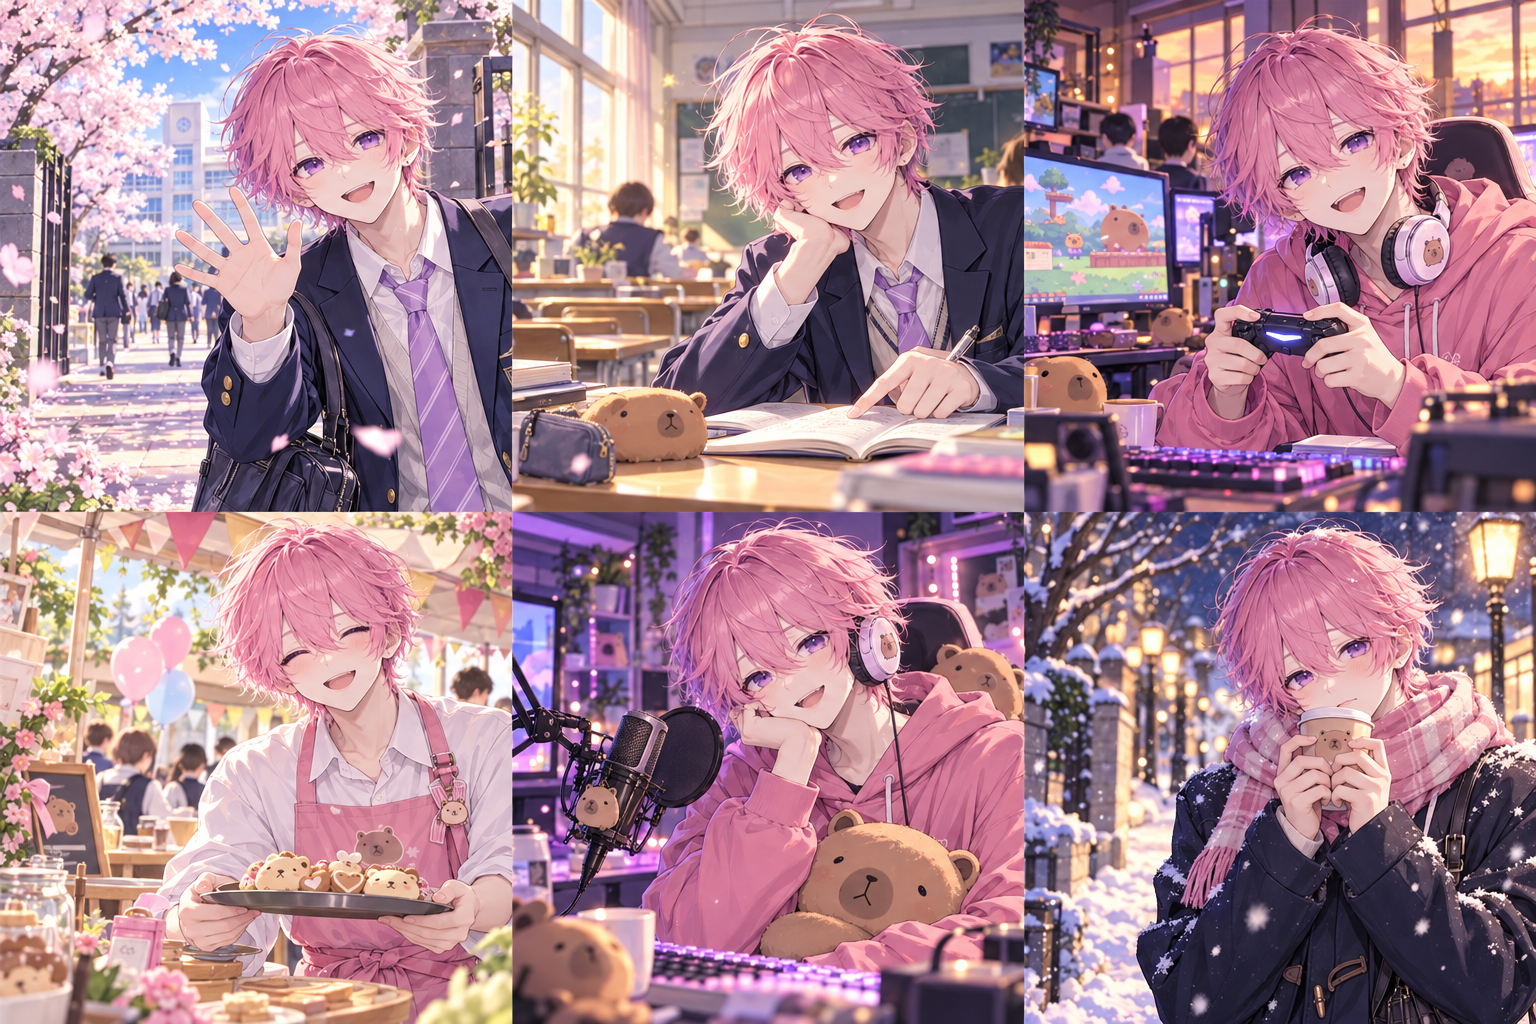
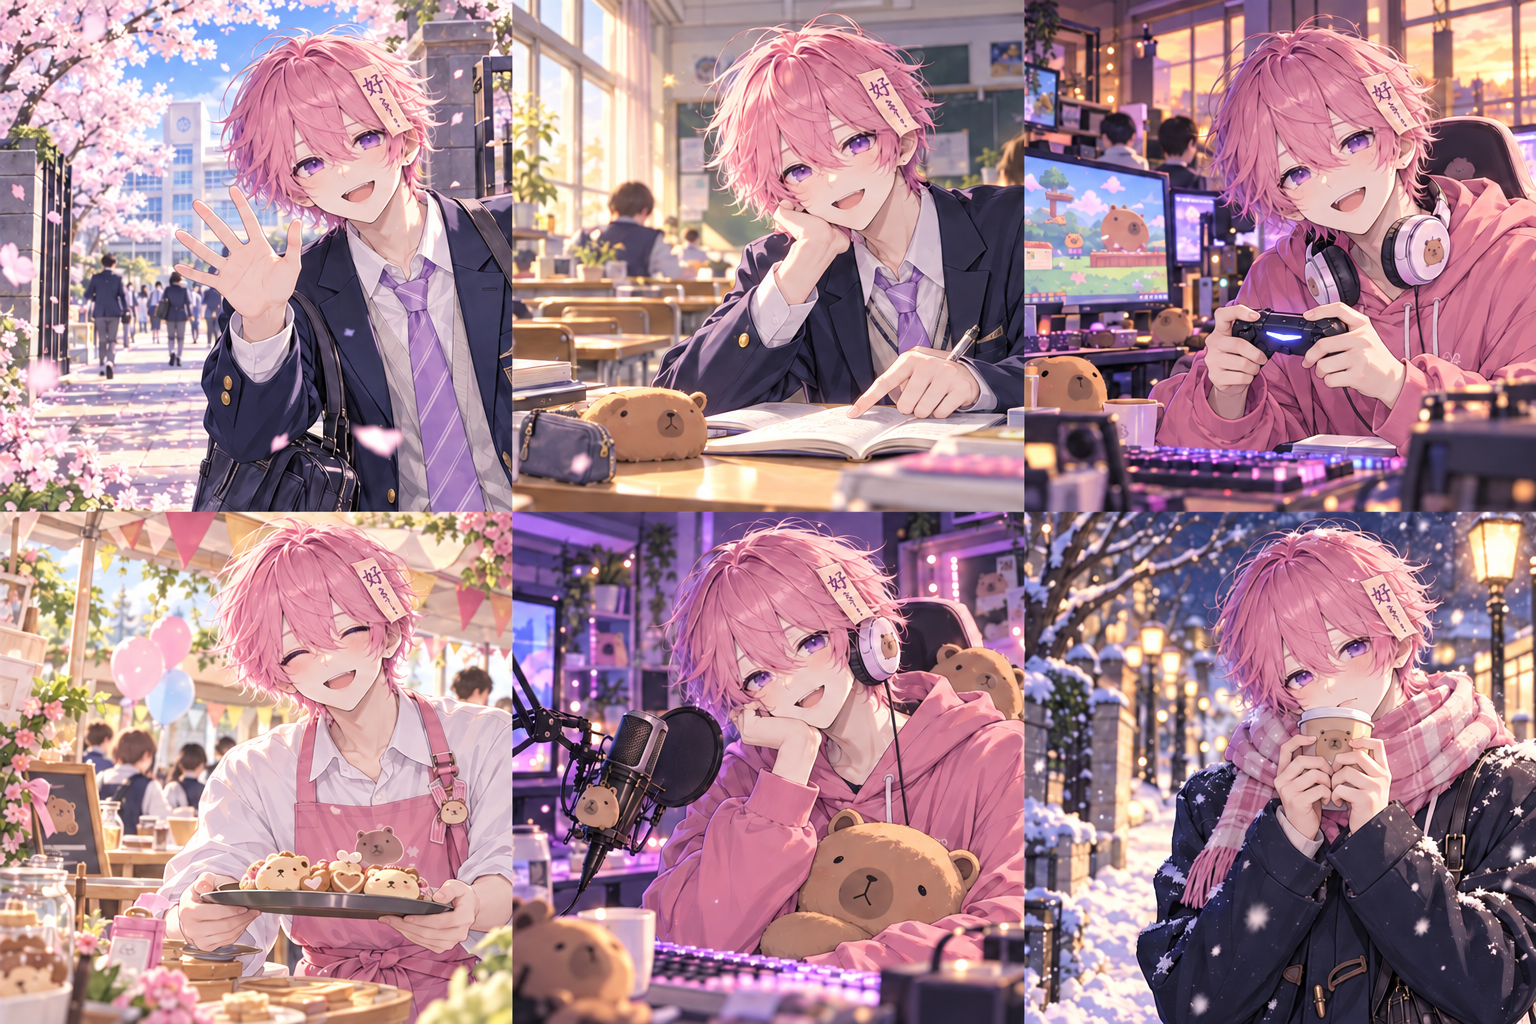
Add Misora hair talisman to all six illustrated scenes

diff --git a/misora/game.js b/misora/game.js
@@ -69,7 +69,7 @@ function button(text, action, cls = "") {
   return `<button class="${cls}" data-action="${action}">${text}</button>`;
 }
 function scene(i, extra = "") {
-  return `<svg class="scene ${extra}" viewBox="0 0 512 512" preserveAspectRatio="xMidYMid slice" role="img" aria-label="${chapters[i].place}のミソラ"><image href="assets/scenes.png" x="${-(i % 3) * 512}" y="${-Math.floor(i / 3) * 512}" width="1536" height="1024"/></svg>`;
+  return `<svg class="scene ${extra}" viewBox="0 0 512 512" preserveAspectRatio="xMidYMid slice" role="img" aria-label="${chapters[i].place}のミソラ"><image href="assets/scenes.png?v=ofuda1" x="${-(i % 3) * 512}" y="${-Math.floor(i / 3) * 512}" width="1536" height="1024"/></svg>`;
 }
 function render() {
   stop();

diff --git a/misora/index.html b/misora/index.html
@@ -9,6 +9,6 @@
   </head>
   <body>
     <div id="app"></div>
-    <script type="module" src="game.js"></script>
+    <script type="module" src="game.js?v=ofuda1"></script>
   </body>
 </html>
